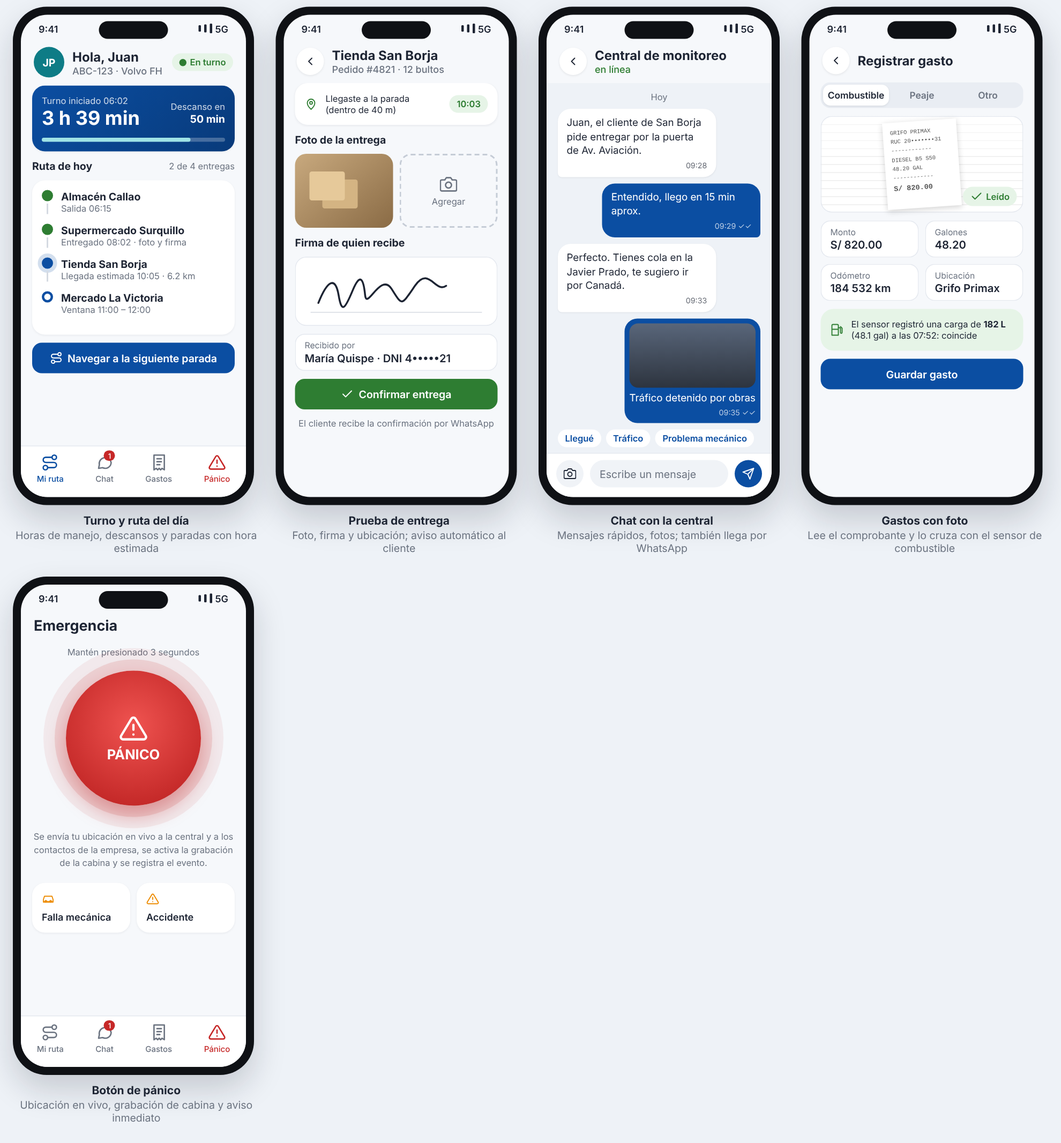
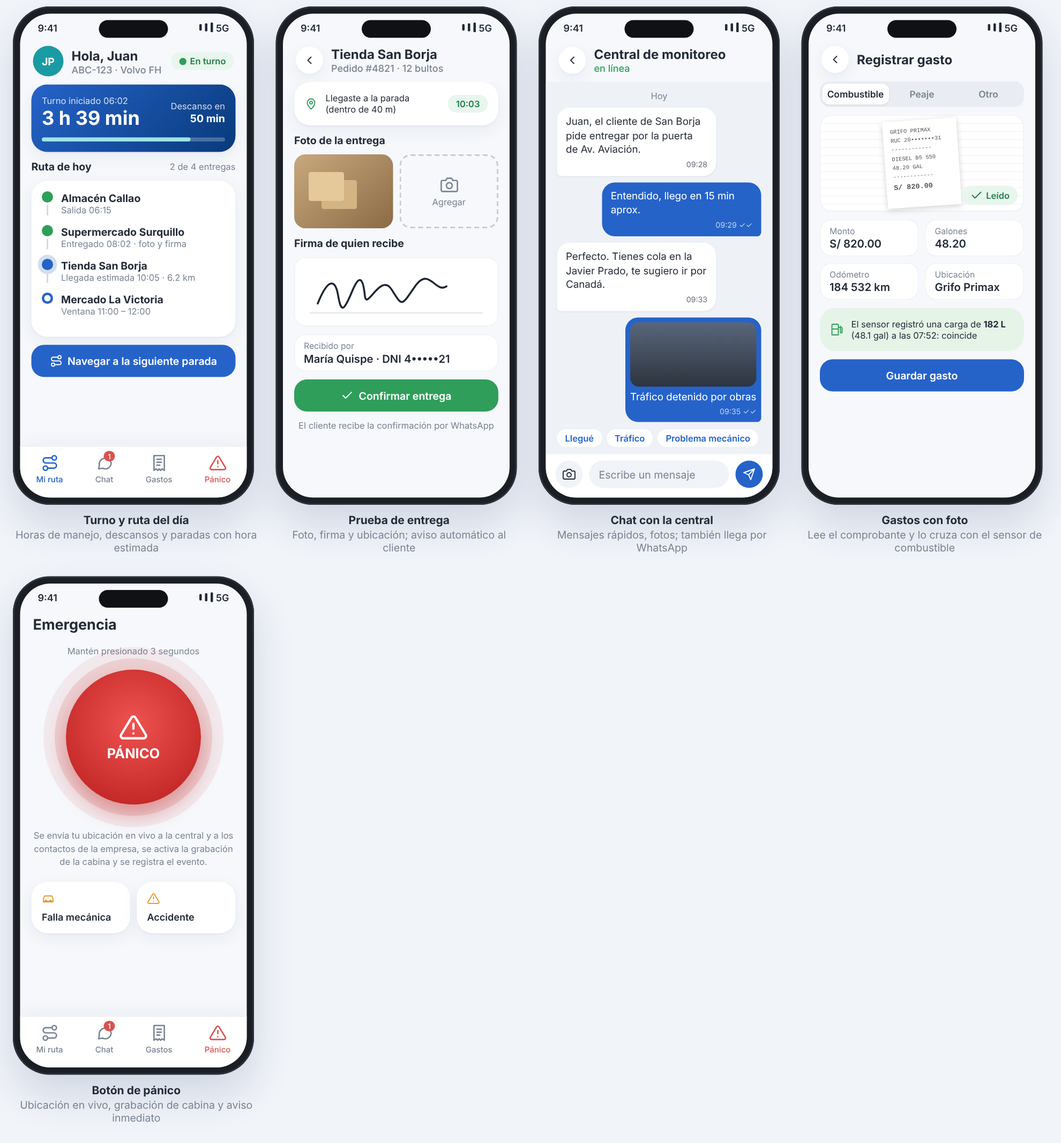
Prototipo móvil: estilo más suave y pantallas de sensores de la unidad
Claude-Session: https://claude.ai/code/session_01BDt2R4TKk3QGNRuJmLv2ho

diff --git a/tracking-platform/docs/app-movil/prototipo.html b/tracking-platform/docs/app-movil/prototipo.html
@@ -8,8 +8,10 @@
 <link href="https://fonts.googleapis.com/css2?family=Inter:wght@400;500;600;700&display=swap" rel="stylesheet">
 <style>
 :root {
-  --brand: #0b4ea2; --brand-2: #0e7c86; --ok: #2e7d32; --warn: #ed8b00; --bad: #c62828; --idle: #6b7280;
-  --bg: #eef2f7; --card: #ffffff; --text: #1d2433; --muted: #6b7380; --line: #e4e8ef;
+  --brand: #2563c9; --brand-2: #1a9aa3; --ok: #2f9e5b; --warn: #e79a2b; --bad: #d9534f; --idle: #8a93a3;
+  --bg: #f1f4f9; --card: #ffffff; --text: #232a38; --muted: #7a8394; --line: #edf0f5;
+  --soft: 0 6px 20px rgba(35, 60, 110, .07), 0 1px 2px rgba(35, 60, 110, .04);
+  --soft-blue: #eaf1fd; --soft-green: #e8f6ee; --soft-amber: #fdf3e3; --soft-red: #fcecec; --soft-teal: #e6f6f7; --soft-violet: #f0edfd;
   --map-land: #f2efe9; --map-road: #ffffff; --map-water: #aad3df; --map-park: #d8ecd0;
 }
 * { box-sizing: border-box; }
@@ -23,8 +25,8 @@ figure { margin: 0; }
 figcaption { text-align: center; margin-top: 10px; font-size: 13px; color: var(--muted); }
 figcaption b { color: var(--text); display: block; font-size: 14px; margin-bottom: 2px; }
 
-.phone { width: 300px; height: 620px; border-radius: 42px; background: #0f1115; padding: 10px; box-shadow: 0 18px 40px rgba(16, 24, 40, .18); }
-.screen { position: relative; width: 100%; height: 100%; border-radius: 33px; overflow: hidden; background: #f6f8fb; display: flex; flex-direction: column; font-size: 13px; }
+.phone { width: 300px; height: 620px; border-radius: 46px; background: #1b1e24; padding: 9px; box-shadow: 0 24px 50px rgba(35, 60, 110, .16), inset 0 0 0 2px #2c3038; }
+.screen { position: relative; width: 100%; height: 100%; border-radius: 38px; overflow: hidden; background: #f6f8fb; display: flex; flex-direction: column; font-size: 13px; }
 .status { height: 34px; flex-shrink: 0; display: flex; align-items: center; justify-content: space-between; padding: 0 22px; font-size: 12px; font-weight: 600; position: relative; z-index: 3; }
 .status::after { content: ""; position: absolute; left: 50%; top: 8px; width: 86px; height: 22px; margin-left: -43px; background: #0f1115; border-radius: 12px; }
 .status .icons { display: flex; gap: 4px; align-items: center; }
@@ -32,47 +34,47 @@ figcaption b { color: var(--text); display: block; font-size: 14px; margin-botto
 .appbar { display: flex; align-items: center; gap: 10px; padding: 6px 16px 10px; }
 .appbar h3 { margin: 0; font-size: 18px; flex: 1; }
 .appbar .sub { font-size: 12px; color: var(--muted); font-weight: 500; }
-.icon-btn { width: 34px; height: 34px; border-radius: 50%; background: var(--card); display: grid; place-items: center; box-shadow: 0 1px 3px rgba(0,0,0,.08); flex-shrink: 0; }
+.icon-btn { width: 34px; height: 34px; border-radius: 50%; background: var(--card); display: grid; place-items: center; box-shadow: var(--soft); flex-shrink: 0; }
 .content { flex: 1; overflow: hidden; padding: 0 14px; display: flex; flex-direction: column; gap: 10px; }
-.tabbar { height: 64px; flex-shrink: 0; background: var(--card); border-top: 1px solid var(--line); display: flex; justify-content: space-around; align-items: center; padding-bottom: 8px; }
+.tabbar { height: 64px; flex-shrink: 0; background: rgba(255,255,255,.96); border-top: 1px solid var(--line); box-shadow: 0 -6px 20px rgba(35,60,110,.05); display: flex; justify-content: space-around; align-items: center; padding-bottom: 8px; }
 .tab { display: flex; flex-direction: column; align-items: center; gap: 3px; font-size: 10px; color: var(--muted); font-weight: 500; position: relative; }
 .tab.on { color: var(--brand); }
 .tab .badge { position: absolute; top: -4px; right: -2px; background: var(--bad); color: #fff; border-radius: 8px; font-size: 9px; padding: 1px 5px; }
 svg.i { width: 22px; height: 22px; fill: none; stroke: currentColor; stroke-width: 1.9; stroke-linecap: round; stroke-linejoin: round; }
 svg.s { width: 16px; height: 16px; }
-.card { background: var(--card); border-radius: 16px; padding: 12px; box-shadow: 0 1px 3px rgba(16,24,40,.06); }
+.card { background: var(--card); border-radius: 20px; padding: 13px; box-shadow: var(--soft); }
 .row { display: flex; align-items: center; gap: 10px; }
 .grow { flex: 1; min-width: 0; }
 .muted { color: var(--muted); }
 .small { font-size: 11px; }
 .dot { width: 9px; height: 9px; border-radius: 50%; display: inline-block; flex-shrink: 0; }
-.chip { display: inline-flex; align-items: center; gap: 4px; padding: 4px 9px; border-radius: 20px; font-size: 11px; font-weight: 600; background: #e8eef8; color: var(--brand); white-space: nowrap; }
-.chip.ok { background: #e6f4e7; color: var(--ok); } .chip.warn { background: #fff1de; color: #b06200; } .chip.bad { background: #fde8e8; color: var(--bad); } .chip.idle { background: #eef0f3; color: var(--idle); }
-.btn { border: 0; border-radius: 12px; padding: 11px; font: 600 13px Inter, sans-serif; background: var(--brand); color: #fff; width: 100%; display: flex; align-items: center; justify-content: center; gap: 6px; }
+.chip { display: inline-flex; align-items: center; gap: 4px; padding: 4px 10px; border-radius: 20px; font-size: 11px; font-weight: 600; background: #e8eef8; color: var(--brand); white-space: nowrap; }
+.chip.ok { background: var(--soft-green); color: #23804a; } .chip.warn { background: var(--soft-amber); color: #b5701a; } .chip.bad { background: var(--soft-red); color: #c0392b; } .chip.idle { background: #eef0f3; color: var(--idle); }
+.btn { border: 0; border-radius: 16px; padding: 12px; font: 600 13px Inter, sans-serif; background: var(--brand); color: #fff; width: 100%; display: flex; align-items: center; justify-content: center; gap: 6px; }
 .btn.outline { background: transparent; color: var(--brand); box-shadow: inset 0 0 0 1.5px var(--brand); }
 .btn.danger { background: var(--bad); }
 .btn.light { background: #e8eef8; color: var(--brand); }
 .truncate { white-space: nowrap; overflow: hidden; text-overflow: ellipsis; }
 .map { position: absolute; inset: 0; }
 .float { position: absolute; z-index: 2; }
-.search { left: 14px; right: 14px; top: 40px; background: var(--card); border-radius: 14px; padding: 10px 12px; display: flex; align-items: center; gap: 8px; color: var(--muted); box-shadow: 0 2px 8px rgba(0,0,0,.1); }
+.search { left: 14px; right: 14px; top: 40px; background: var(--card); border-radius: 18px; padding: 11px 14px; display: flex; align-items: center; gap: 8px; color: var(--muted); box-shadow: 0 8px 24px rgba(35,60,110,.12); }
 .filters { left: 14px; right: 0; top: 88px; display: flex; gap: 6px; overflow: hidden; }
-.filters .chip { background: var(--card); box-shadow: 0 1px 4px rgba(0,0,0,.1); }
-.sheet { left: 0; right: 0; bottom: 64px; background: var(--card); border-radius: 22px 22px 0 0; padding: 8px 14px 12px; box-shadow: 0 -4px 16px rgba(0,0,0,.08); }
+.filters .chip { background: var(--card); box-shadow: 0 4px 12px rgba(35,60,110,.10); }
+.sheet { left: 0; right: 0; bottom: 64px; background: var(--card); border-radius: 28px 28px 0 0; padding: 8px 14px 12px; box-shadow: 0 -10px 30px rgba(35,60,110,.10); }
 .grab { width: 38px; height: 4px; background: #d5dae2; border-radius: 3px; margin: 0 auto 10px; }
 .unit-row { display: flex; align-items: center; gap: 10px; padding: 8px 0; border-bottom: 1px solid var(--line); }
 .unit-row:last-child { border-bottom: 0; }
-.avatar { width: 36px; height: 36px; border-radius: 12px; display: grid; place-items: center; color: #fff; flex-shrink: 0; }
+.avatar { width: 38px; height: 38px; border-radius: 14px; display: grid; place-items: center; color: #fff; flex-shrink: 0; }
 .speed { font-weight: 700; font-size: 14px; text-align: right; }
 .kpis { display: grid; grid-template-columns: repeat(3, 1fr); gap: 8px; }
-.kpi { background: var(--card); border-radius: 14px; padding: 10px; box-shadow: 0 1px 3px rgba(16,24,40,.06); }
+.kpi { background: var(--card); border-radius: 18px; padding: 11px; box-shadow: var(--soft); }
 .kpi b { display: block; font-size: 16px; white-space: nowrap; }
 .kpi span { font-size: 10.5px; color: var(--muted); }
 .actions { display: grid; grid-template-columns: repeat(4, 1fr); gap: 8px; }
 .action { display: flex; flex-direction: column; align-items: center; gap: 5px; font-size: 10.5px; font-weight: 500; text-align: center; }
-.action .ic { width: 44px; height: 44px; border-radius: 14px; display: grid; place-items: center; background: #e8eef8; color: var(--brand); }
-.action.red .ic { background: #fde8e8; color: var(--bad); }
-.alert-item { display: flex; gap: 10px; padding: 10px 12px; background: var(--card); border-radius: 14px; box-shadow: 0 1px 3px rgba(16,24,40,.06); border-left: 4px solid var(--warn); }
+.action .ic { width: 46px; height: 46px; border-radius: 16px; display: grid; place-items: center; background: var(--soft-blue); color: var(--brand); }
+.action.red .ic { background: var(--soft-red); color: var(--bad); }
+.alert-item { display: flex; gap: 10px; padding: 10px 12px; background: var(--card); border-radius: 18px; box-shadow: var(--soft); border-left: 4px solid var(--warn); }
 .alert-item.critical { border-left-color: var(--bad); } .alert-item.medium { border-left-color: var(--brand); } .alert-item.low { border-left-color: var(--idle); }
 .alert-item .t { font-weight: 600; font-size: 12.5px; }
 .thumb { width: 54px; height: 40px; border-radius: 8px; flex-shrink: 0; background: linear-gradient(135deg, #3d4756, #1c222b); position: relative; overflow: hidden; }
@@ -100,13 +102,13 @@ svg.s { width: 16px; height: 16px; }
 .bubble .tm { display: block; font-size: 9.5px; opacity: .7; margin-top: 3px; text-align: right; }
 .composer { display: flex; gap: 8px; align-items: center; padding: 8px 12px 12px; background: var(--card); border-top: 1px solid var(--line); }
 .composer .in { flex: 1; background: #f0f3f7; border-radius: 20px; padding: 9px 12px; color: var(--muted); }
-.field { background: var(--card); border-radius: 12px; padding: 8px 12px; box-shadow: inset 0 0 0 1px var(--line); }
+.field { background: var(--card); border-radius: 14px; padding: 8px 12px; box-shadow: inset 0 0 0 1px var(--line); }
 .field label { display: block; font-size: 10.5px; color: var(--muted); }
 .field div { font-weight: 600; font-size: 13.5px; margin-top: 1px; }
 .receipt { height: 120px; border-radius: 14px; background: repeating-linear-gradient(0deg, #fff 0 9px, #f1f1f1 9px 10px); box-shadow: inset 0 0 0 1px var(--line); position: relative; display: grid; place-items: center; }
 .receipt .paper { width: 92px; height: 108px; background: #fff; box-shadow: 0 2px 8px rgba(0,0,0,.18); transform: rotate(-4deg); padding: 9px; font-size: 7px; line-height: 1.6; color: #555; font-family: monospace; }
 .panic { width: 168px; height: 168px; border-radius: 50%; margin: 6px auto; background: radial-gradient(circle at 50% 40%, #ef5350, #b71c1c); color: #fff; display: grid; place-items: center; text-align: center; font-weight: 700; font-size: 17px; box-shadow: 0 0 0 14px rgba(198,40,40,.13), 0 0 0 28px rgba(198,40,40,.07), 0 12px 24px rgba(183,28,28,.35); }
-.login-bg { position: absolute; inset: 0; background: linear-gradient(160deg, var(--brand) 0%, #083a7a 55%, var(--brand-2) 130%); }
+.login-bg { position: absolute; inset: 0; background: radial-gradient(120% 70% at 100% 0%, rgba(120,220,225,.35), transparent 60%), linear-gradient(165deg, #2f6fd6 0%, #1d4fa8 55%, #1a8f98 120%); }
 .toast { left: 12px; right: 12px; top: 44px; background: rgba(255,255,255,.96); border-radius: 18px; padding: 10px 12px; box-shadow: 0 8px 24px rgba(0,0,0,.18); display: flex; gap: 10px; }
 .toast .app { width: 30px; height: 30px; border-radius: 8px; background: var(--brand); display: grid; place-items: center; flex-shrink: 0; }
 .video { height: 150px; border-radius: 14px; background: linear-gradient(180deg, #59667a 0%, #2d343f 60%, #1f252d 100%); position: relative; overflow: hidden; }
@@ -115,6 +117,19 @@ svg.s { width: 16px; height: 16px; }
 .video .tag { position: absolute; left: 8px; top: 8px; background: var(--bad); color: #fff; font-size: 10px; font-weight: 700; padding: 2px 6px; border-radius: 5px; }
 .video .ch { position: absolute; right: 8px; top: 8px; color: #fff; font-size: 10px; background: rgba(0,0,0,.45); padding: 2px 6px; border-radius: 5px; }
 .video .ts { position: absolute; left: 8px; bottom: 8px; color: #fff; font-size: 10px; font-family: monospace; }
+.tiles { display: grid; grid-template-columns: 1fr 1fr; gap: 8px; }
+.tile { background: var(--card); border-radius: 18px; padding: 10px 11px; box-shadow: var(--soft); display: flex; flex-direction: column; gap: 4px; min-width: 0; }
+.tile .hd { display: flex; align-items: center; gap: 6px; font-size: 10.5px; color: var(--muted); font-weight: 500; }
+.tile .ic { width: 24px; height: 24px; border-radius: 8px; display: grid; place-items: center; flex-shrink: 0; }
+.tile .ic svg { width: 14px; height: 14px; }
+.tile .v { font-size: 17px; font-weight: 700; letter-spacing: -.01em; }
+.tile .v small { font-size: 11px; font-weight: 500; color: var(--muted); margin-left: 2px; }
+.tile .meter { height: 5px; border-radius: 3px; background: var(--line); overflow: hidden; }
+.tile .meter i { display: block; height: 100%; border-radius: 3px; }
+.ring { width: 92px; height: 92px; flex-shrink: 0; }
+.sensor-strip { display: flex; gap: 6px; overflow: hidden; }
+.sensor-strip .s { flex: 1; border-radius: 14px; padding: 7px 6px; text-align: center; font-size: 10px; color: var(--muted); }
+.sensor-strip .s b { display: block; font-size: 13px; color: var(--text); }
 .note { max-width: 1320px; margin: 0 auto 40px; padding: 0 16px; color: var(--muted); font-size: 13px; line-height: 1.6; }
 </style>
 </head>
@@ -152,6 +167,13 @@ svg.s { width: 16px; height: 16px; }
     <symbol id="i-download" viewBox="0 0 24 24"><path d="M21 15v4a2 2 0 0 1-2 2H5a2 2 0 0 1-2-2v-4M7 10l5 5 5-5M12 15V3"/></symbol>
     <symbol id="i-wrench" viewBox="0 0 24 24"><path d="M14.7 6.3a4 4 0 0 0 5 5L22 14l-8 8-2.3-2.3a4 4 0 0 0-5-5L2 10l8-8z"/></symbol>
     <symbol id="i-car" viewBox="0 0 24 24"><path d="M5 17h14M3 13l2-6h14l2 6v5H3z"/><circle cx="7.5" cy="16.5" r="1.5"/><circle cx="16.5" cy="16.5" r="1.5"/></symbol>
+    <symbol id="i-thermo" viewBox="0 0 24 24"><path d="M14 14.8V4a2 2 0 1 0-4 0v10.8a4 4 0 1 0 4 0z"/></symbol>
+    <symbol id="i-battery" viewBox="0 0 24 24"><rect x="2" y="7" width="17" height="10" rx="2"/><path d="M22 11v2M6 10v4M10 10v4"/></symbol>
+    <symbol id="i-door" viewBox="0 0 24 24"><path d="M4 21h16M6 21V4a1 1 0 0 1 1-1h10a1 1 0 0 1 1 1v17"/><path d="M14 12h.01"/></symbol>
+    <symbol id="i-snow" viewBox="0 0 24 24"><path d="M12 2v20M4.9 6.5l14.2 11M19.1 6.5 4.9 17.5M9 4l3 2 3-2M9 20l3-2 3 2"/></symbol>
+    <symbol id="i-weight" viewBox="0 0 24 24"><path d="M6 8h12l3 13H3z"/><circle cx="12" cy="5" r="2.5"/></symbol>
+    <symbol id="i-drop" viewBox="0 0 24 24"><path d="M12 2.7S5 10 5 15a7 7 0 0 0 14 0c0-5-7-12.3-7-12.3z"/></symbol>
+    <symbol id="i-bolt" viewBox="0 0 24 24"><path d="M13 2 3 14h9l-1 8 10-12h-9z"/></symbol>
     <symbol id="truck" viewBox="0 0 24 24"><path fill="currentColor" stroke="none" d="M2 6h11v9H2zM13 9h4l3 3v3h-7zM6 18.5a1.8 1.8 0 1 0 0-.01zM17 18.5a1.8 1.8 0 1 0 0-.01z"/></symbol>
     <g id="mapbase">
       <rect width="300" height="620" fill="#f2efe9"/>
@@ -184,7 +206,7 @@ svg.s { width: 16px; height: 16px; }
       <div class="status" style="color:#fff"><span>9:41</span><span class="icons"><i class="bar"></i><i class="bar" style="height:10px"></i><i class="bar" style="height:12px"></i> 5G</span></div>
       <div style="position:relative;z-index:2;flex:1;display:flex;flex-direction:column;padding:40px 26px 30px">
         <div style="display:flex;align-items:center;gap:10px">
-          <svg viewBox="0 0 24 24" width="44" height="44"><path d="M12 22s7-6.2 7-12a7 7 0 1 0-14 0c0 5.8 7 12 7 12z" fill="#fff"/><circle cx="12" cy="10" r="3" fill="#0b4ea2"/></svg>
+          <svg viewBox="0 0 24 24" width="44" height="44"><path d="M12 22s7-6.2 7-12a7 7 0 1 0-14 0c0 5.8 7 12 7 12z" fill="#fff"/><circle cx="12" cy="10" r="3" fill="#2563c9"/></svg>
           <div><div style="font-weight:700;font-size:22px;letter-spacing:.02em">ANDES</div><div style="font-size:11px;letter-spacing:.3em;color:#9fe3e6">TRACKING</div></div>
         </div>
         <div style="margin-top:46px;font-size:24px;font-weight:700;line-height:1.25">Tu flota,<br>siempre a la vista</div>
@@ -207,12 +229,12 @@ svg.s { width: 16px; height: 16px; }
     <div class="phone"><div class="screen">
       <svg class="map" viewBox="0 0 300 620" preserveAspectRatio="xMidYMid slice">
         <use href="#mapbase"/>
-        <circle cx="185" cy="248" r="34" fill="rgba(11,78,162,.08)" stroke="#0b4ea2" stroke-width="1.5" stroke-dasharray="4 3"/>
+        <circle cx="185" cy="248" r="34" fill="rgba(11,78,162,.08)" stroke="#2563c9" stroke-width="1.5" stroke-dasharray="4 3"/>
         <g transform="translate(130 160)"><circle r="15" fill="#2e7d32" stroke="#fff" stroke-width="3"/><path d="M0-7 5 5 0 2-5 5z" fill="#fff" transform="rotate(40)"/></g>
         <g transform="translate(205 300)"><circle r="15" fill="#2e7d32" stroke="#fff" stroke-width="3"/><path d="M0-7 5 5 0 2-5 5z" fill="#fff" transform="rotate(170)"/></g>
         <g transform="translate(96 352)"><circle r="15" fill="#ed8b00" stroke="#fff" stroke-width="3"/><rect x="-4" y="-4" width="8" height="8" rx="1" fill="#fff"/></g>
         <g transform="translate(250 215)"><circle r="15" fill="#6b7280" stroke="#fff" stroke-width="3"/><rect x="-4" y="-4" width="8" height="8" rx="1" fill="#fff"/></g>
-        <g transform="translate(160 420)"><circle r="18" fill="#0b4ea2" stroke="#fff" stroke-width="3"/><text y="5" text-anchor="middle" font-size="13" font-weight="700" fill="#fff" font-family="Inter">4</text></g>
+        <g transform="translate(160 420)"><circle r="18" fill="#2563c9" stroke="#fff" stroke-width="3"/><text y="5" text-anchor="middle" font-size="13" font-weight="700" fill="#fff" font-family="Inter">4</text></g>
         <g font-family="Inter" font-size="9" font-weight="600" fill="#1d2433"><text x="148" y="164">ABC-123</text><text x="222" y="304">BXR-845</text></g>
       </svg>
       <div class="status"><span>9:41</span><span class="icons"><i class="bar"></i><i class="bar" style="height:10px"></i><i class="bar" style="height:12px"></i> 5G</span></div>
@@ -242,7 +264,7 @@ svg.s { width: 16px; height: 16px; }
     <div class="phone"><div class="screen">
       <div style="position:relative;height:170px;flex-shrink:0">
         <svg class="map" viewBox="0 0 300 170" preserveAspectRatio="xMidYMid slice"><svg viewBox="40 80 300 170" width="300" height="170"><use href="#mapbase"/></svg>
-          <path d="M40 150 C 90 140, 110 100, 160 96 S 230 90, 250 70" fill="none" stroke="#0b4ea2" stroke-width="4" stroke-linecap="round" opacity=".85"/>
+          <path d="M40 150 C 90 140, 110 100, 160 96 S 230 90, 250 70" fill="none" stroke="#2563c9" stroke-width="4" stroke-linecap="round" opacity=".85"/>
           <g transform="translate(160 96)"><circle r="14" fill="#2e7d32" stroke="#fff" stroke-width="3"/><path d="M0-7 5 5 0 2-5 5z" fill="#fff" transform="rotate(70)"/></g></svg>
         <div class="status" style="position:absolute;left:0;right:0;top:0"><span>9:41</span><span class="icons"><i class="bar"></i><i class="bar" style="height:10px"></i><i class="bar" style="height:12px"></i> 5G</span></div>
         <div style="position:absolute;left:14px;top:40px" class="icon-btn"><svg class="i s"><use href="#i-back"/></svg></div>
@@ -264,14 +286,80 @@ svg.s { width: 16px; height: 16px; }
           <div class="action"><span class="ic"><svg class="i"><use href="#i-share"/></svg></span>Compartir</div>
           <div class="action red"><span class="ic"><svg class="i"><use href="#i-power"/></svg></span>Cortar motor</div>
         </div>
-        <div class="card" style="padding:4px 12px">
-          <div class="list-item"><svg class="i s muted"><use href="#i-key"/></svg><span class="grow">Motor encendido</span><b>3 h 40 min</b></div>
-          <div class="list-item"><svg class="i s muted"><use href="#i-gauge"/></svg><span class="grow">Puntaje de conducción</span><b style="color:var(--ok)">92 / 100</b></div>
-          <div class="list-item"><svg class="i s muted"><use href="#i-wrench"/></svg><span class="grow">Cambio de aceite</span><b style="color:var(--warn)">en 850 km</b></div>
+        <div class="card" style="padding:11px 12px">
+          <div class="row" style="margin-bottom:8px"><b class="grow">Sensores</b><span class="small" style="color:var(--brand);font-weight:600">Ver los 12 ›</span></div>
+          <div class="sensor-strip">
+            <div class="s" style="background:var(--soft-green)"><b>ON</b>Ignición</div>
+            <div class="s" style="background:var(--soft-blue)"><b>88°C</b>Motor</div>
+            <div class="s" style="background:var(--soft-teal)"><b>3.8°C</b>Cámara frío</div>
+            <div class="s" style="background:var(--soft-amber)"><b>27.9 V</b>Batería</div>
+          </div>
         </div>
       </div>
     </div></div>
     <figcaption><b>Detalle de la unidad</b>Datos en vivo, sensores, accesos a historial, video y corte seguro</figcaption>
+  </figure>
+
+  <!-- 3b Sensores -->
+  <figure>
+    <div class="phone"><div class="screen">
+      <div class="status"><span>9:41</span><span class="icons"><i class="bar"></i><i class="bar" style="height:10px"></i><i class="bar" style="height:12px"></i> 5G</span></div>
+      <div class="appbar"><div class="icon-btn"><svg class="i s"><use href="#i-back"/></svg></div><div class="grow"><h3 style="font-size:16px">Sensores ABC-123</h3><div class="sub">Actualizado hace 5 s · 12 sensores</div></div></div>
+      <div class="content">
+        <div class="card row" style="gap:12px">
+          <svg class="ring" viewBox="0 0 100 100"><circle cx="50" cy="50" r="40" fill="none" stroke="#edf0f5" stroke-width="11"/><circle cx="50" cy="50" r="40" fill="none" stroke="url(#fuelg)" stroke-width="11" stroke-linecap="round" stroke-dasharray="171 252" transform="rotate(-90 50 50)"/><defs><linearGradient id="fuelg" x1="0" x2="1"><stop offset="0" stop-color="#1a9aa3"/><stop offset="1" stop-color="#2563c9"/></linearGradient></defs><text x="50" y="50" text-anchor="middle" font-size="20" font-weight="700" fill="#232a38" font-family="Inter">68%</text><text x="50" y="65" text-anchor="middle" font-size="9" fill="#7a8394" font-family="Inter">204 / 300 L</text></svg>
+          <div class="grow"><div class="row" style="gap:6px"><svg class="i s" style="color:var(--brand-2)"><use href="#i-fuel"/></svg><b>Combustible</b></div>
+            <div class="small muted" style="margin:4px 0 6px;line-height:1.45">Consumo hoy 58 L · 31 L/100 km<br>Autonomía ≈ 650 km</div>
+            <span class="chip ok">Sin descargas hoy</span></div>
+        </div>
+        <div class="tiles">
+          <div class="tile"><div class="hd"><span class="ic" style="background:var(--soft-green);color:var(--ok)"><svg class="i"><use href="#i-key"/></svg></span><span class="truncate">Ignición</span></div><div class="v">Encendido<small></small></div><div class="small muted">desde 06:02</div></div>
+          <div class="tile"><div class="hd"><span class="ic" style="background:var(--soft-amber);color:#c77a14"><svg class="i"><use href="#i-thermo"/></svg></span><span class="truncate">Temp. motor</span></div><div class="v">88<small>°C</small></div><div class="meter"><i style="width:72%;background:var(--warn)"></i></div></div>
+          <div class="tile"><div class="hd"><span class="ic" style="background:var(--soft-teal);color:var(--brand-2)"><svg class="i"><use href="#i-snow"/></svg></span><span class="truncate">Cámara de frío</span></div><div class="v">3.8<small>°C</small></div><div class="meter"><i style="width:38%;background:var(--brand-2)"></i></div></div>
+          <div class="tile"><div class="hd"><span class="ic" style="background:var(--soft-green);color:var(--ok)"><svg class="i"><use href="#i-battery"/></svg></span><span class="truncate">Batería</span></div><div class="v">27.9<small>V</small></div><div class="meter"><i style="width:90%;background:var(--ok)"></i></div></div>
+          <div class="tile"><div class="hd"><span class="ic" style="background:var(--soft-blue);color:var(--brand)"><svg class="i"><use href="#i-gauge"/></svg></span><span class="truncate">RPM</span></div><div class="v">1 450<small></small></div><div class="meter"><i style="width:48%;background:var(--brand)"></i></div></div>
+          <div class="tile"><div class="hd"><span class="ic" style="background:var(--soft-violet);color:#6a55c9"><svg class="i"><use href="#i-weight"/></svg></span><span class="truncate">Peso de carga</span></div><div class="v">12.4<small>t</small></div><div class="meter"><i style="width:62%;background:#8a77e0"></i></div></div>
+          <div class="tile"><div class="hd"><span class="ic" style="background:var(--soft-red);color:var(--bad)"><svg class="i"><use href="#i-door"/></svg></span><span class="truncate">Puerta de carga</span></div><div class="v">Cerrada<small></small></div><div class="small muted">abierta 08:01 · 6 min</div></div>
+          <div class="tile"><div class="hd"><span class="ic" style="background:var(--soft-blue);color:var(--brand)"><svg class="i"><use href="#i-clock"/></svg></span><span class="truncate">Horas de motor</span></div><div class="v">8 214<small>h</small></div></div>
+        </div>
+      </div>
+    </div></div>
+    <figcaption><b>Sensores de la unidad</b>Combustible, temperaturas, batería, carga, puertas y más, en vivo</figcaption>
+  </figure>
+
+  <!-- 3c Detalle de sensor -->
+  <figure>
+    <div class="phone"><div class="screen">
+      <div class="status"><span>9:41</span><span class="icons"><i class="bar"></i><i class="bar" style="height:10px"></i><i class="bar" style="height:12px"></i> 5G</span></div>
+      <div class="appbar"><div class="icon-btn"><svg class="i s"><use href="#i-back"/></svg></div><div class="grow"><h3 style="font-size:16px">Cámara de frío</h3><div class="sub">ABC-123 · sensor de temperatura</div></div></div>
+      <div class="content">
+        <div class="card" style="background:linear-gradient(135deg,#e6f6f7,#eaf1fd);box-shadow:none">
+          <div class="row"><div class="grow"><div class="small muted">Ahora</div><div style="font-size:30px;font-weight:700;letter-spacing:-.02em">3.8 <span style="font-size:15px;color:var(--muted)">°C</span></div></div>
+            <div style="text-align:right"><span class="chip ok">En rango</span><div class="small muted" style="margin-top:6px">Rango 2 – 6 °C</div></div></div>
+        </div>
+        <div class="seg"><span>6 h</span><span class="on">24 h</span><span>7 días</span></div>
+        <div class="card" style="padding:12px 8px 8px">
+          <svg viewBox="0 0 260 130" width="100%" height="130">
+            <rect x="24" y="30" width="232" height="52" fill="#e8f6ee" rx="4"/>
+            <g stroke="#edf0f5"><path d="M24 10h232M24 56h232M24 102h232"/></g>
+            <g font-size="8" fill="#7a8394" font-family="Inter"><text x="2" y="13">10°</text><text x="6" y="59">4°</text><text x="2" y="105">-2°</text>
+              <text x="24" y="122">00:00</text><text x="100" y="122">06:00</text><text x="170" y="122">12:00</text><text x="228" y="122">ahora</text></g>
+            <path d="M24 60 C40 58 52 62 66 56 S90 58 104 54 S120 22 128 20 S140 46 150 52 S180 58 196 55 S226 60 256 58 V102 H24z" fill="url(#tg)" opacity=".5"/>
+            <path d="M24 60 C40 58 52 62 66 56 S90 58 104 54 S120 22 128 20 S140 46 150 52 S180 58 196 55 S226 60 256 58" fill="none" stroke="#1a9aa3" stroke-width="2.4" stroke-linecap="round"/>
+            <defs><linearGradient id="tg" x1="0" y1="0" x2="0" y2="1"><stop offset="0" stop-color="#1a9aa3" stop-opacity=".45"/><stop offset="1" stop-color="#1a9aa3" stop-opacity="0"/></linearGradient></defs>
+            <circle cx="128" cy="20" r="4" fill="#d9534f" stroke="#fff" stroke-width="2"/>
+            <g transform="translate(136 6)"><rect width="74" height="18" rx="9" fill="#fcecec"/><text x="37" y="12" text-anchor="middle" font-size="8.5" font-weight="600" fill="#c0392b" font-family="Inter">8.6 °C · puerta abierta</text></g>
+          </svg>
+        </div>
+        <div class="kpis">
+          <div class="kpi"><b>2.9°</b><span>Mínima</span></div>
+          <div class="kpi"><b style="color:var(--bad)">8.6°</b><span>Máxima</span></div>
+          <div class="kpi"><b>4.1°</b><span>Promedio</span></div>
+        </div>
+        <div class="card row"><span class="ic" style="width:30px;height:30px;border-radius:10px;display:grid;place-items:center;background:var(--soft-amber);color:#c77a14"><svg class="i s"><use href="#i-bell"/></svg></span><div class="grow"><b style="font-size:12.5px">Alerta si sale de 2 – 6 °C</b><div class="small muted">más de 10 min · push y WhatsApp</div></div><span class="chip ok">Activa</span></div>
+      </div>
+    </div></div>
+    <figcaption><b>Detalle de un sensor</b>Gráfico con el rango permitido, eventos marcados y su alerta</figcaption>
   </figure>
 
   <!-- 4 Corte de motor -->
@@ -328,11 +416,11 @@ svg.s { width: 16px; height: 16px; }
     <div class="phone"><div class="screen">
       <svg class="map" viewBox="0 0 300 620" preserveAspectRatio="xMidYMid slice">
         <use href="#mapbase"/>
-        <path d="M80 520 C 100 470, 130 450, 138 400 S 120 320, 150 290 S 210 260, 212 210 S 190 130, 240 110" fill="none" stroke="#0b4ea2" stroke-width="5" stroke-linecap="round" opacity=".85"/>
+        <path d="M80 520 C 100 470, 130 450, 138 400 S 120 320, 150 290 S 210 260, 212 210 S 190 130, 240 110" fill="none" stroke="#2563c9" stroke-width="5" stroke-linecap="round" opacity=".85"/>
         <path d="M138 400 C 134 370, 126 345, 132 330" fill="none" stroke="#c62828" stroke-width="5" stroke-linecap="round"/>
         <circle cx="80" cy="520" r="7" fill="#2e7d32" stroke="#fff" stroke-width="2.5"/><circle cx="240" cy="110" r="7" fill="#c62828" stroke="#fff" stroke-width="2.5"/>
         <g transform="translate(150 290)"><circle r="10" fill="#ed8b00" stroke="#fff" stroke-width="2.5"/><text y="4" text-anchor="middle" font-size="10" font-weight="700" fill="#fff" font-family="Inter">P</text></g>
-        <g transform="translate(212 210)"><circle r="13" fill="#0b4ea2" stroke="#fff" stroke-width="3"/><path d="M0-6 4.5 4.5 0 2-4.5 4.5z" fill="#fff" transform="rotate(15)"/></g>
+        <g transform="translate(212 210)"><circle r="13" fill="#2563c9" stroke="#fff" stroke-width="3"/><path d="M0-6 4.5 4.5 0 2-4.5 4.5z" fill="#fff" transform="rotate(15)"/></g>
       </svg>
       <div class="status"><span>9:41</span><span class="icons"><i class="bar"></i><i class="bar" style="height:10px"></i><i class="bar" style="height:12px"></i> 5G</span></div>
       <div class="float search" style="color:var(--text)"><svg class="i s"><use href="#i-back"/></svg><div class="grow"><b>ABC-123</b> <span class="muted small">· Hoy 06:00 – 12:30</span></div><svg class="i s"><use href="#i-download"/></svg></div>
